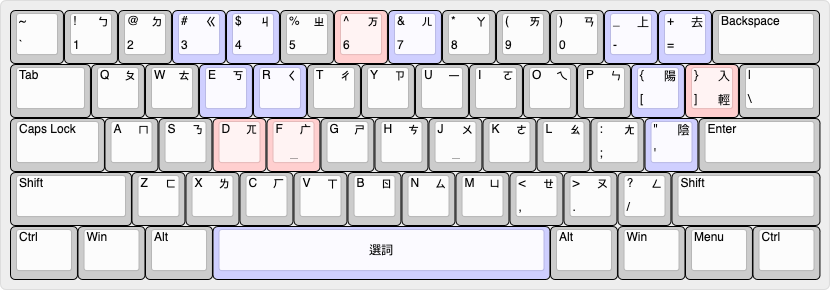
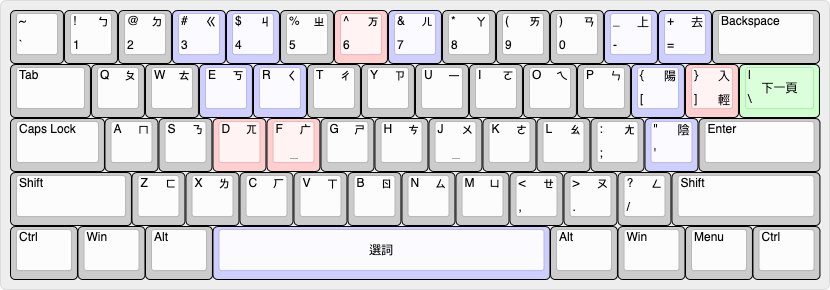
補充說明

Changed region(s): [[0.8735, 0.2172, 0.994, 0.4034]]

diff --git a/README.md b/README.md
@@ -86,7 +86,7 @@
 - ㄍ、ㄎ、ㄐ、ㄑ四母各自向上平移一鍵，符合注音字母表順序
 - 陰平聲與輕音共用按鍵`'`，標在字尾爲陰平聲，標在字頭爲輕音
 
-不同於通常的注音輸入法，本輸入方案以【空格鍵】選詞
+不同於通常的注音輸入法，本輸入方案以【空格鍵】選詞，以`]`、`\`鍵換頁
 
 
 
